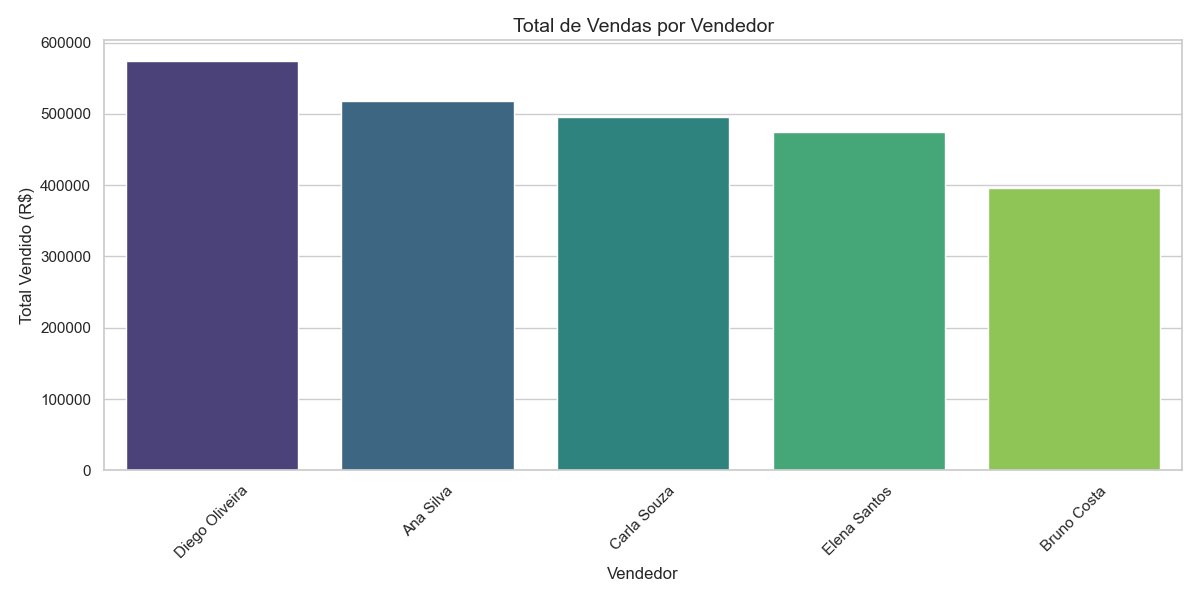
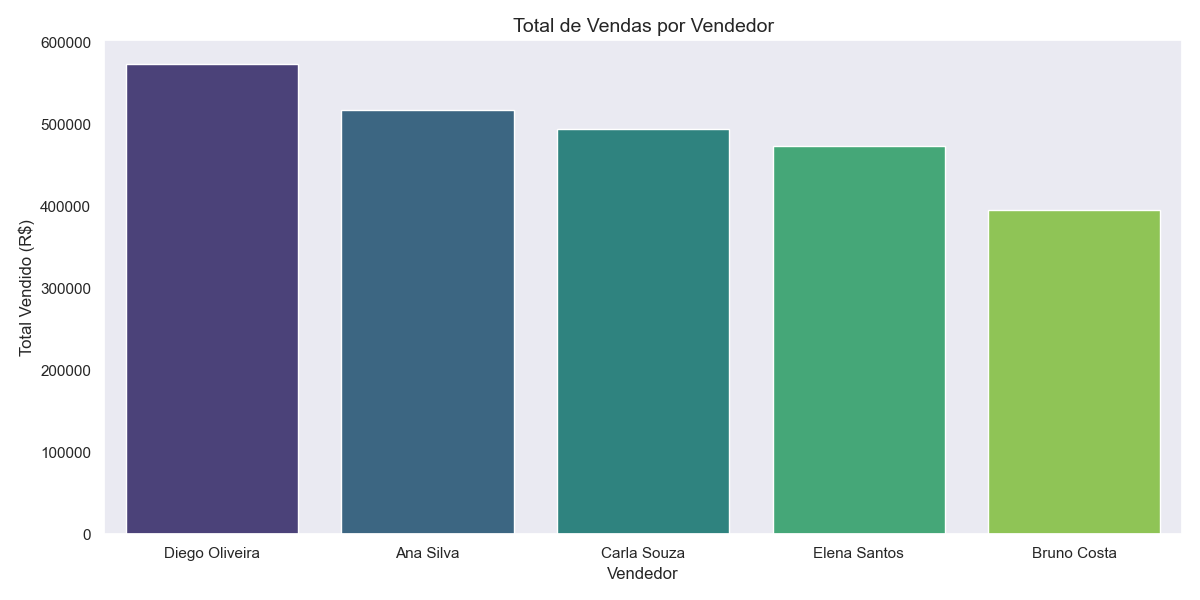
Update plot styles and configurations for better visualization

diff --git a/Ciencia de Dados/Atividade 1/main.py b/Ciencia de Dados/Atividade 1/main.py
@@ -12,7 +12,7 @@ def analisar_vendas(caminho_csv="vendas_empresa.csv"):
         return
 
     # Configurações de Estilo
-    sns.set_theme(style="whitegrid")
+    sns.set_theme(style="dark")
     plt.rcParams["figure.figsize"] = (12, 6)
 
     try:
@@ -35,7 +35,7 @@ def analisar_vendas(caminho_csv="vendas_empresa.csv"):
         plt.figure()
         sns.barplot(data=vendedor_resumo, x="Vendedor", y="Total Vendido (R$)", palette="viridis")
         plt.title("Total de Vendas por Vendedor", fontsize=14)
-        plt.xticks(rotation=45)
+        plt.xticks(rotation=0)
         plt.tight_layout()
         plt.savefig("01_vendas_por_vendedor.png")
         print("-> Gráfico '01_vendas_por_vendedor.png' gerado.")
@@ -67,7 +67,7 @@ def analisar_vendas(caminho_csv="vendas_empresa.csv"):
         plt.figure()
         sns.lineplot(data=semana_resumo, x="Semana (Início)", y="Valor_Total", marker="s", color="seagreen")
         plt.title("Desempenho de Vendas por Semana", fontsize=14)
-        plt.xticks(rotation=45, ha="right")
+        plt.xticks(rotation=90, ha="center")
         plt.tight_layout()
         plt.savefig("03_vendas_por_semana.png")
         print("-> Gráfico '03_vendas_por_semana.png' gerado.")
@@ -79,5 +79,6 @@ def analisar_vendas(caminho_csv="vendas_empresa.csv"):
     except Exception as e:
         print(f"Ocorreu um erro durante o processamento: {e}")
 
+#Chama a função quando o script é executado diretamente
 if __name__ == "__main__":
     analisar_vendas("vendas_empresa.csv")
